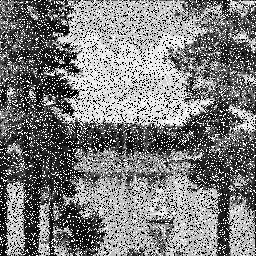
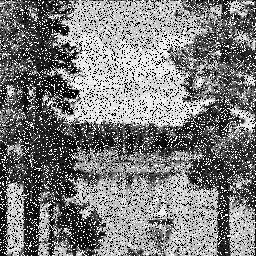
median filtering working and tested on images

diff --git a/helpers.py b/helpers.py
@@ -15,7 +15,7 @@ def traverseImage(input_img_array: np.ndarray, weights: np.ndarray, operation: C
     >np.ndarray representing the mask to be used. Should have dtype=np.uint8.
 
     >**operation**:
-    >Function that take 2 np.ndarray's as arguments and returns a np.ndarray 
+    >Function that take 2 np.ndarray's as arguments and returns an integer value for pixel value
 
     **Returns**
     -----------
@@ -38,6 +38,46 @@ def traverseImage(input_img_array: np.ndarray, weights: np.ndarray, operation: C
 
             neighborhood = getNeighborhood(padded_img_array, (padded_row, padded_col), mask_size)
             pixel_value = operation(neighborhood, weights)
+
+            output_array[current_row, current_col] = pixel_value
+
+    output_array = mapValues(output_array)
+    return output_array
+
+def traverseImage(input_img_array: np.ndarray, size: np.ndarray, operation: Callable[[np.ndarray, np.ndarray], np.ndarray]):
+    """
+    Computes the correlation of an image with a given mask.
+
+    **Parameters**
+    ---------------
+    >**input_img_array**:
+    >np.ndarray representing image. Should have dtype=np.uint8.
+
+    >**size**:
+    >size of the neighborhood to compute at each pixel
+
+    >**operation**:
+    >Function that takes 1 np.ndarray and size as arguments and returns an integer value for pixel value
+
+    **Returns**
+    -----------
+    >**output_array**: 2D array representing the output of performing the passed functionality at each pixel
+    """
+    input_row, input_col = input_img_array.shape
+
+    #determine padding size and pad image
+    pad_size = size//2
+    padded_img_array = np.pad(array=input_img_array, pad_width=pad_size)
+
+    # height for rows, width for cols
+    output_array = np.zeros((input_row, input_col), dtype=np.uint64)
+    for current_row in range(input_row):
+        for current_col in range(input_col):
+            padded_row = current_row+pad_size
+            padded_col = current_col+pad_size
+
+            neighborhood = getNeighborhood(padded_img_array, (padded_row, padded_col), size)
+            pixel_value = operation(neighborhood)
 
             output_array[current_row, current_col] = pixel_value
 
@@ -154,6 +194,20 @@ def salt_pepper_noise(input_img_array: np.ndarray, noise_percent: float):
                     input_img_array[row, col] = 255
 
     return input_img_array
+
+def get_median(input_array: np.ndarray):
+    return int(np.median(input_array))
+
+#test get median
+# get_median_test_array = np.array([
+#     [0, 1, 2, 3, 4],
+#     [6, 7, 8, 9, 10],
+#     [11, 12, 13, 14, 15],
+#     [16, 17, 18, 19, 20],
+#     [21, 22, 23, 24, 25]
+# ])
+
+# print(get_median(get_median_test_array))
 
 
 #test salt and pepper noise            

diff --git a/median_filtering.py b/median_filtering.py
@@ -1,4 +1,4 @@
-from helpers import salt_pepper_noise
+from helpers import salt_pepper_noise, traverseImage, get_median
 import cv2
 import numpy as np
 
@@ -20,4 +20,47 @@ cv2.imwrite(f'{outfile_save_path}boat_sp_30.jpg', boat_sp_30)
 boat_sp_50 = salt_pepper_noise(boat, .5)
 cv2.imwrite(f'{outfile_save_path}boat_sp_50.jpg', boat_sp_50)
 
-# def median_filter(input_img_array: np.ndarray, size: int):
+def median_filter(input_img_array: np.ndarray, size: int):
+    """
+    Performs median filtering on an image to remove salt and pepper noise
+
+    **Parameters**
+    ---------------
+    >**input_img_array**:
+    >np.ndarray representing image. Should have dtype=np.uint8.
+
+    >**size**:
+    >int representing the size of the averaging mask
+
+    **Returns**
+    -----------
+    >**output_array**: 2D array representing the filtered image
+    """
+    return traverseImage(input_img_array=input_img_array, size=size, operation=get_median)
+
+#lenna filtering
+lenna_sp_30_median_filtered7 = median_filter(lenna_sp_30, 7)
+cv2.imwrite(f'{outfile_save_path}lenna_sp_30_median_filtered7.jpg', lenna_sp_30_median_filtered7)
+
+lenna_sp_30_median_filtered15 = median_filter(lenna_sp_30, 15)
+cv2.imwrite(f'{outfile_save_path}lenna_sp_30_median_filtered15.jpg', lenna_sp_30_median_filtered15)
+
+lenna_sp_50_median_filtered7 = median_filter(lenna_sp_50, 7)
+cv2.imwrite(f'{outfile_save_path}lenna_sp_50_median_filtered7.jpg', lenna_sp_50_median_filtered7)
+
+lenna_sp_50_median_filtered15 = median_filter(lenna_sp_50, 15)
+cv2.imwrite(f'{outfile_save_path}lenna_sp_50_median_filtered15.jpg', lenna_sp_50_median_filtered15)
+
+
+# boat filtering
+boat_sp_30_median_filtered7 = median_filter(boat_sp_30, 7)
+cv2.imwrite(f'{outfile_save_path}boat_sp_30_median_filtered7.jpg', boat_sp_30_median_filtered7)
+
+boat_sp_30_median_filtered15 = median_filter(boat_sp_30, 15)
+cv2.imwrite(f'{outfile_save_path}boat_sp_30_median_filtered15.jpg', boat_sp_30_median_filtered15)
+
+boat_sp_50_median_filtered7 = median_filter(boat_sp_50, 7)
+cv2.imwrite(f'{outfile_save_path}boat_sp_50_median_filtered7.jpg', boat_sp_50_median_filtered7)
+
+boat_sp_50_median_filtered15 = median_filter(boat_sp_50, 15)
+cv2.imwrite(f'{outfile_save_path}boat_sp_50_median_filtered15.jpg', boat_sp_50_median_filtered15)

diff --git a/averaging_gaussian.py b/averaging_gaussian.py
@@ -49,7 +49,7 @@ def average(input_img_array: np.ndarray, size: int):
 
 def gaussian(input_img_array: np.ndarray, weights: np.ndarray):
     """
-    Computes the guassian of an image with a given mask.
+    Computes the gaussian of an image with a given mask.
 
     **Parameters**
     ---------------
